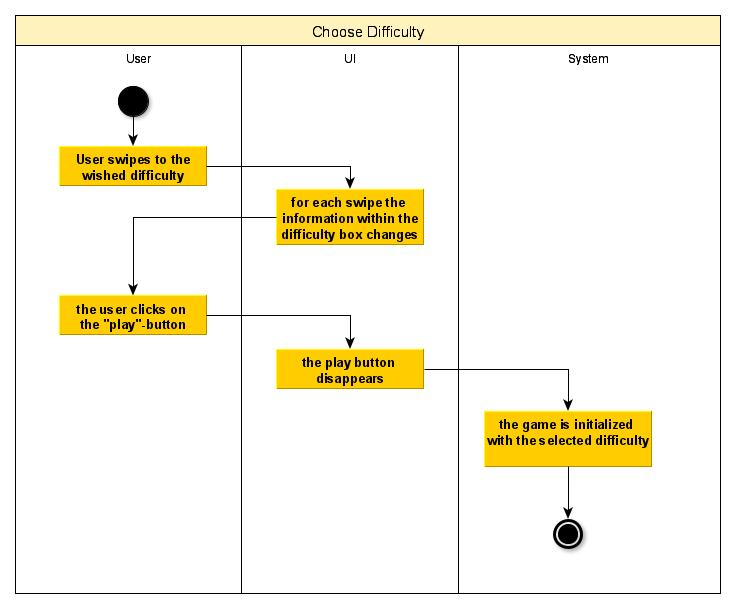
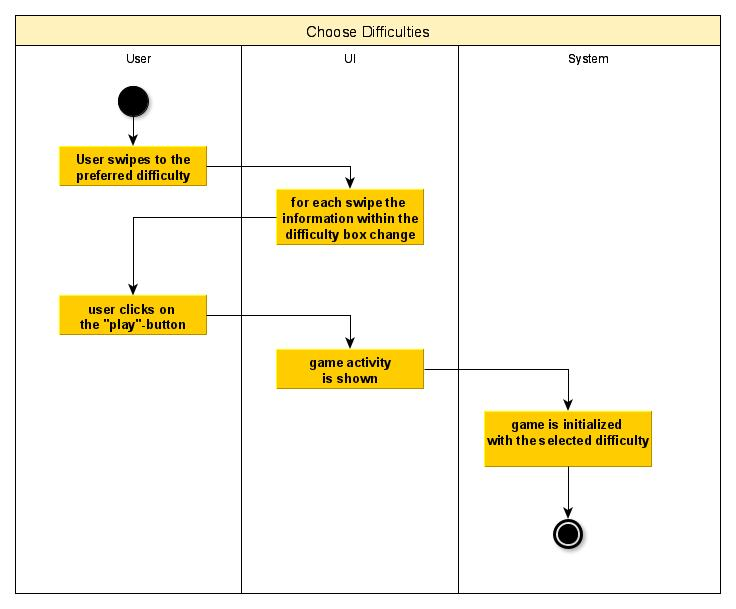
Review of UCS

diff --git a/documents/UCS/UCS-Upgrade_Towers/UCS-Upgrade_Towers.md b/documents/UCS/UCS-Upgrade_Towers/UCS-Upgrade_Towers.md
@@ -2,18 +2,19 @@
 
 ## 1.1 Brief Description
 Every built tower can be upgraded in order to increase some of the stats of this tower.
-For upgrading a tower ingame, money is needed.
+For upgrading a tower, ingame money is needed.
 Visually, such upgrades should be recognizable by stars which are located on top of a tower.
 
 # 2 Flow of Events
 ## 2.1 Basic Flow
-- User clicks twice on a built tower
-- a popup with the tower stats, the upgraded tower stats and the option to sell the tower opens
+- User clicks on an already focused tower
+- a popup menu opens which contains the tower stats, the upgraded tower stats and the option to upgrade the tower
 - User clicks on the upgrade button
 - a star appears on top of the clicked tower and on the tower image in the popup
-- the stats of the tower increase
-- the value and the new value of the tower increase
+- the stats of the tower change
+- the value of the tower increases
 - the new values are shown in the popup
+- the popup can be closed by clicking on the "close" button
 
 ### 2.1.1 Activity Diagram
 ![Activity Diagram for UpgradeTowers](./Activity_Diagram-Upgrade_Towers.jpg)
@@ -25,21 +26,22 @@ Visually, such upgrades should be recognizable by stars which are located on top
 (n/a)
 
 ## 2.2 Alternative Flows
-- if the tower is already once upgraded, there will be a golden star added when upgrading the tower
-- if the tower is already upgraded up to its maximum level, the upgrade button will no longer appear so it is not possible to upgrade the tower once more
+- if the tower is already once upgraded, there will be another golden star added when upgrading the tower
+- if the tower is already upgraded up to its maximum level, the upgrade button will be disabled so it is not possible to upgrade the tower once more
 
 # 3 Special Requirements
 (n/a)
 
 # 4 Preconditions
 ## 4.1 A tower has to be built
-Before it is possible to upgrade a tower it is necessary to build at least one tower
+Before it is possible to upgrade a tower it is necessary to build at least one tower.
 
 ## 4.2 Necessary money is needed
-Before it is possible to upgrade a tower it is necessary to have enough money to buy the upgrade
+Before it is possible to upgrade a tower it is necessary to have enough money to buy the upgrade.
 
 ## 4.3 A tower must be selected
-To open the necessary popup for upgrading a tower, this have to be selected by clicking on it.
+To open the necessary popup for upgrading a tower, the tower has to be focused by clicking on it.
+The focus is recognizable by the displayed range of the tower.
 Click once more on the selected tower to open the tower information popup.
 
 # 5 Postconditions

diff --git a/documents/UCS/UCS-Toggle_Sound_And_Animations/UCS-Toggle_Sound_And_Animations.md b/documents/UCS/UCS-Toggle_Sound_And_Animations/UCS-Toggle_Sound_And_Animations.md
@@ -1,16 +1,16 @@
-# 1 Use-Case Name: Edit Settings
+# 1 Use-Case Name: Toggle Sound And Animations
 
 ## 1.1 Brief Description
-In Order to change some game settings a settings window is provided.
-Within this window users are able to toggle ingame sound and animations.
-Toggling the sound changes if the ingame music is played or not.
-Toggling the animations changes if animations like bullets are shown or not.
+In order to change some game settings a settings window is provided.
+Within this window users are able to toggle ingame sounds and animations.
+Toggling the sound can pause or continue playing the music.
+Toggling the animations e.g. hides or shows the bullets of towers.
 
 # 2 Flow of Events
 ## 2.1 Basic Flow
 - user clicks on a "toggle"-button
 - the image of the "toggle"-button changes
-- the information is send to the system
+- the information is sent to the system
 
 
 ### 2.1.1 Activity Diagram
@@ -24,14 +24,15 @@ Toggling the animations changes if animations like bullets are shown or not.
 
 ## 2.2 Alternative Flows
 The user can open and close the settings menu without changing any settings.
-In the settings menu includes a button to leave game to the main menu
+The settings menu includes a button for leaving the game and returning to the main menu.
+The sound can also be toggled in the main menu.
 
 # 3 Special Requirements
 (n/a)
 
 # 4 Preconditions
-## 4.1 Game has to be started
-As the settings are just callable by using the "pause"-button from ingame, a game has to be started.
+## 4.1 Game has to be started (for Animations)
+As the animation settings are just callable by using the "pause"-button, a game has to be started.
 
 # 5 Postconditions
 (n/a)

diff --git a/documents/UCS/UCS-Choose_Difficulties/UCS-Choose_Difficulties.md b/documents/UCS/UCS-Choose_Difficulties/UCS-Choose_Difficulties.md
@@ -1,13 +1,13 @@
-# 1 Use-Case Name: Start the game from the menu
+# 1 Use-Case Name: Choose Difficulties
 
 ## 1.1 Brief Description
 Every user can start the game from the menu page using the play button.
-There will be an opportunity to decide between three different difficulties for the game.
-The different difficulties have a different amount of enemies and they also have a different strength.
+There will be an opportunity to decide between three different difficulties.
+The difficulties can vary e.g. in strength, speed or amount of enemies.
 
 # 2 Flow of Events
 ## 2.1 Basic Flow
-- the user swipes to the difficulty he wants
+- the user swipes through the difficulties
 - with every swipe the information in the difficulty box change
 - when a difficulty is chosen the user clicks on the play button
 
@@ -22,15 +22,15 @@ The different difficulties have a different amount of enemies and they also have
 (n/a)
 
 ## 2.2 Alternative Flows
-the user can start the game without swiping, then the difficulty is "easy"
-the user can quit the game, then the app closes
+The user can start the game without swiping, then the default difficulty is "easy".
+The user can quit the app, then the app is closed.
 
 # 3 Special Requirements
 (n/a)
 
 # 4 Preconditions
 ## 4.1 Starting the application
-The user has to start the app and he has to be at the menu page.
+The user has to start the app and he has to be at the main menu.
 
 # 5 Postconditions
 (n/a)

diff --git a/documents/UCS/UCS-Sell_Towers/UCS-Sell_Towers.md b/documents/UCS/UCS-Sell_Towers/UCS-Sell_Towers.md
@@ -8,12 +8,12 @@ Every built tower can be sold. When selling a tower, the following steps happen:
 
 # 2 Flow of Events
 ## 2.1 Basic Flow
-- User clicks twice on a built tower
-- a popup with the tower stats, the upgraded tower stats and the option to sell the tower opens
+- User clicks on an already focused tower
+- a popup menu opens which contains the tower stats, the upgraded tower stats and the option to sell the tower
 - User clicks on the sell button
 - the popup disappears
 - the tower disappears
-- the own ingame money increases a bit
+- the ingame money increases according to the value of the sold tower
 
 ### 2.1.1 Activity Diagram
 ![Activity Diagram for SellTowers](./Activity_Diagram-Sell_Towers.jpg)
@@ -32,10 +32,11 @@ Every built tower can be sold. When selling a tower, the following steps happen:
 
 # 4 Preconditions
 ## 4.1 A tower has to be built
-Before it is possible to sell a tower it is necessary to build at least one tower
+Before it is possible to sell a tower it is necessary to build at least one tower.
 
 ## 4.2 A tower must be selected
-To open the necessary popup for upgrading a tower, this have to be selected by clicking on it.
+To open the necessary popup for selling a tower, the tower has to be focused by clicking on it.
+The focus is recognizable by the displayed range of the tower.
 Click once more on the selected tower to open the tower information popup.
 
 # 5 Postconditions

diff --git a/documents/SRS.md b/documents/SRS.md
@@ -163,6 +163,7 @@ Clicking on a tower, a menu should pop up in which one can choose to sell the to
 #### 3.1.5 Select between different towers
 
 In the future, there will be different kind of towers which have different values and abilities.
+[UC Specification](./UCS/UCS-Select_Between_Different_Towers/UCS-Select_Between_Different_Towers.md)
 
 #### 3.1.6 Start waves
 
@@ -186,6 +187,7 @@ Using a button labeled as "Random", a randomly generated map will be created and
 #### 3.1.10 Toggle sound and animations
 
 There will be two buttons which let a player toggle sounds and animations.
+[UC Specification](./UCS/UCS-Toggle_Sound_And_Animations/UCS-Toggle_Sound_And_Animations.md)
 
 #### 3.1.11 Customize own towers
 
@@ -194,6 +196,7 @@ This functionality allows users to create and design their own tower with given 
 #### 3.1.12 Play multiple levels with different difficulties
 
 One can choose between three difficulties: Easy, Medium and Hard. This choice influences tower- and enemy-attributes.
+[UC Specification](./UCS/UCS-Choose_Difficulties/UCS-Choose_Difficulties.md)
 
 #### 3.1.13 Draw or design own towers or enemies
 
